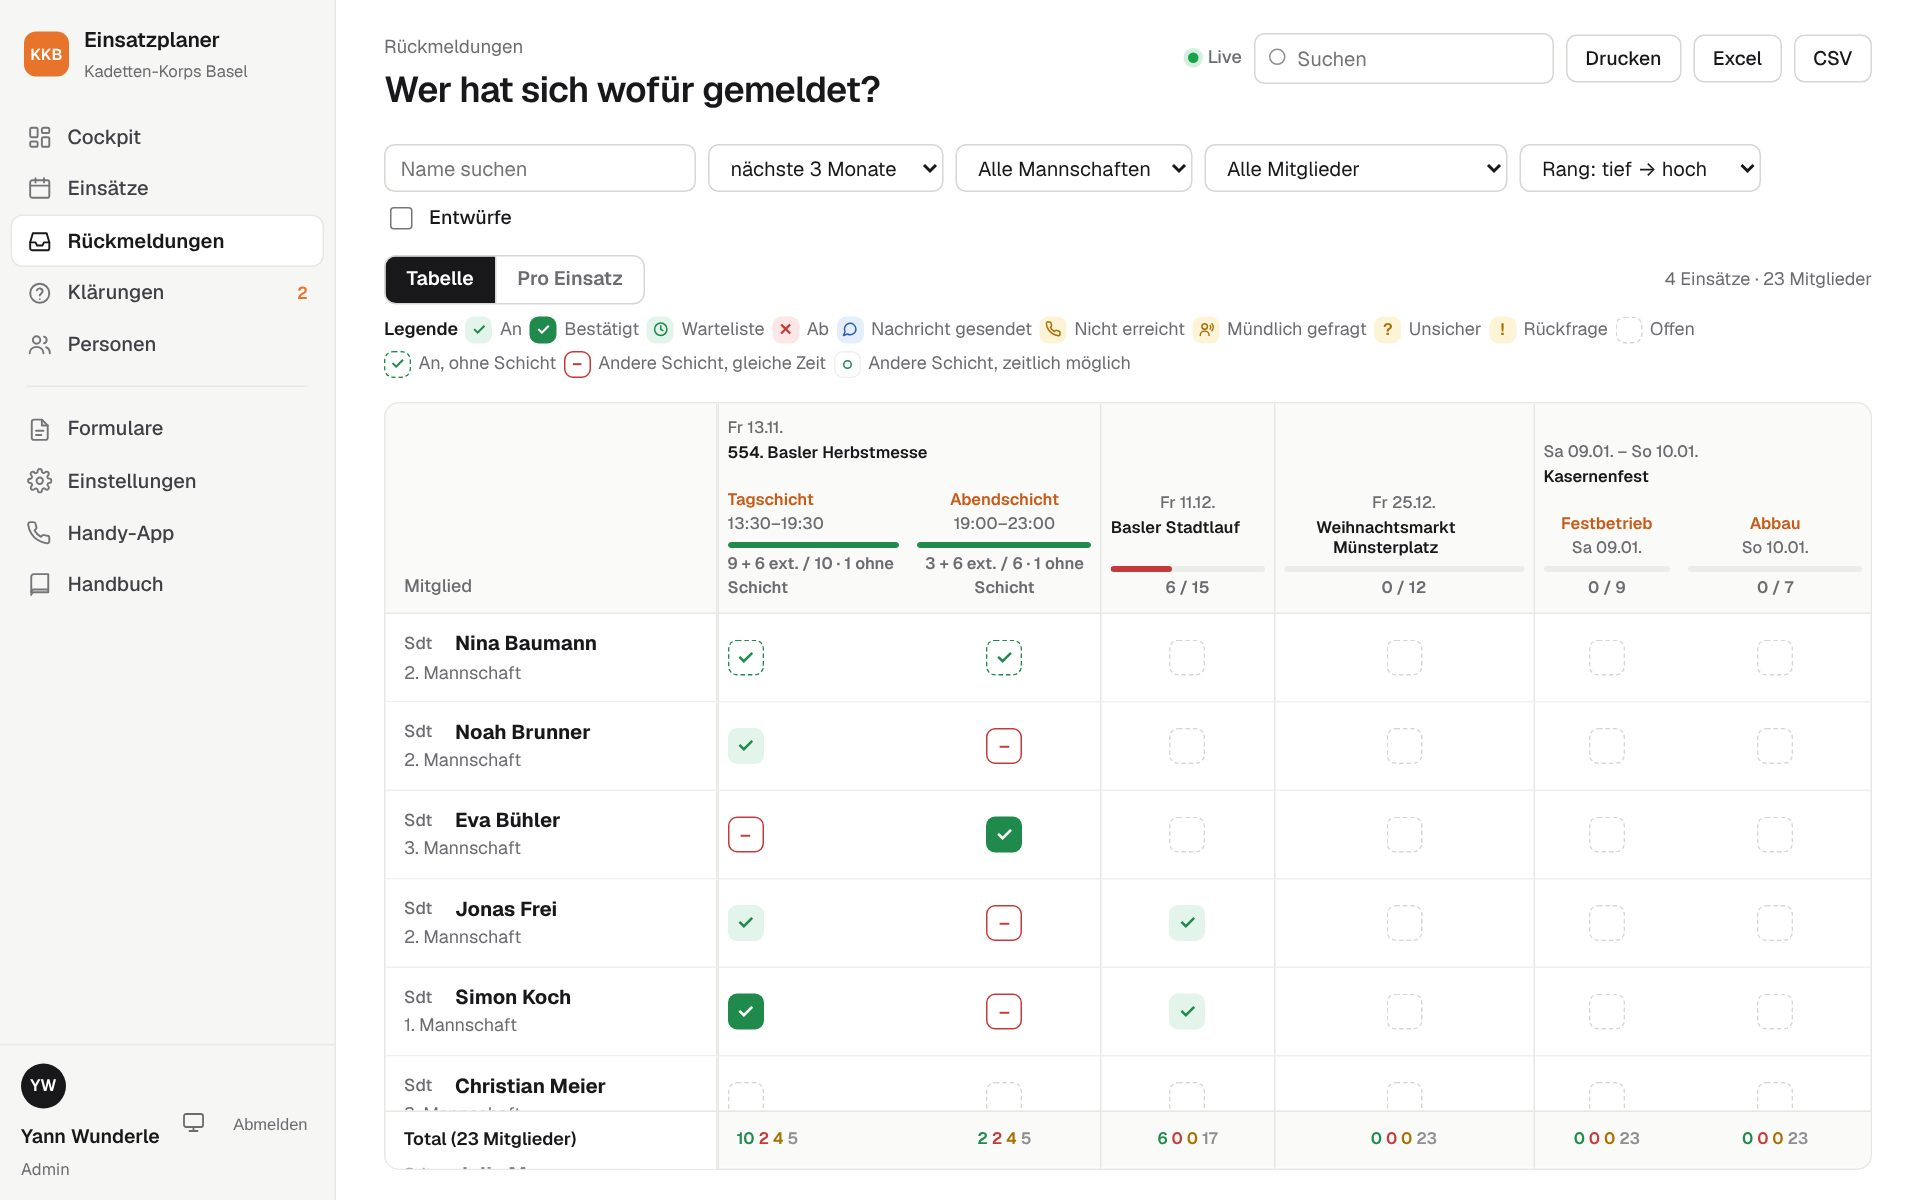
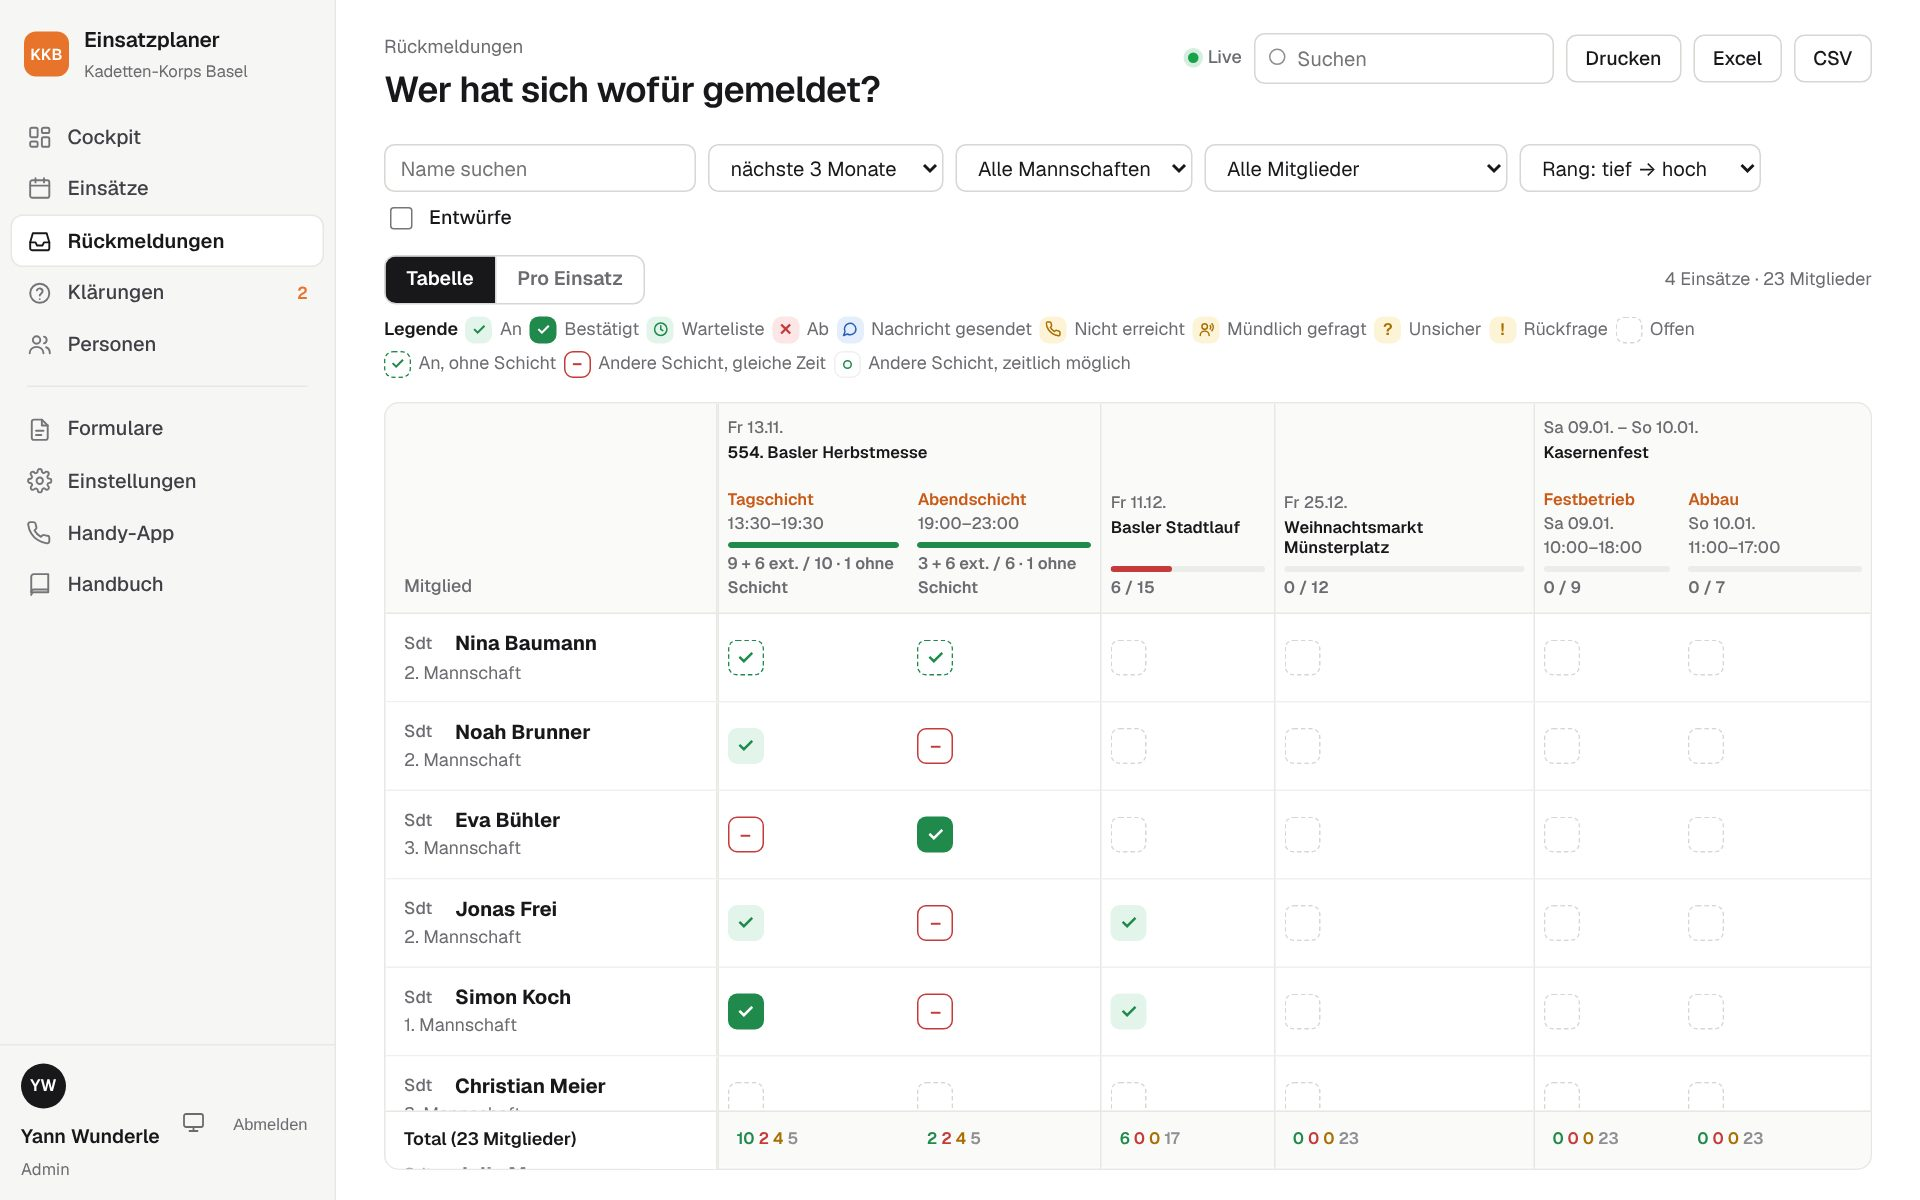
Rückmeldungen: alles links ausrichten, Zeit in jedem Schichtkopf
Claude-Session: https://claude.ai/code/session_01EBemd3HoigeV8VfdKMorkm

diff --git a/public/css/ruhig.css b/public/css/ruhig.css
@@ -508,3 +508,5 @@ details.collapse > summary .hint { margin-left: 6px; font-size: 12px; font-weigh
 @media (max-width: 760px) { .fb-ev:not(.fb-shift) { max-width: 120px; } }
 .fb-ev:not(.fb-shift) .ev { width: max-content; max-width: 136px; }
 @media (max-width: 760px) { .fb-ev:not(.fb-shift) .ev { max-width: 108px; } }
+/* Rückmeldungen: alles links ausrichten (Köpfe, Felder, Total) */
+.fb-matrix th, .fb-matrix td { text-align: left; }

diff --git a/docs/handbuch/handbuch.md b/docs/handbuch/handbuch.md
@@ -577,7 +577,7 @@ Die Seite **Rückmeldungen** beantwortet die wichtigste Frage der Aufgebotsstell
 ![Rückmeldungen als Tabelle](bilder/14-rueckmeldungen.jpg)
 
 - Mitglieder als Zeilen, Einsätze als Spalten. Kopfzeile und Namensspalte bleiben beim Scrollen stehen. Am PC scrollt nur die Tabelle. Filter, Legende und Kopfzeile bleiben oben stehen, die Total-Zeile bleibt unten sichtbar. In der ganzen Ansicht am Handy ist die Namensspalte schmal und zeigt nur Rang und Name. So sind mehr Schichten sichtbar.
-- Hat ein Einsatz mehrere Schichten, bekommt jede Schicht eine eigene Spalte. Unter dem Schichtnamen steht die Zeit, z. B. «13:30–19:30». Bei mehrtägigen Einsätzen steht dort der Tag. Der Einsatzname läuft über alle Spalten seiner Schichten.
+- Hat ein Einsatz mehrere Schichten, bekommt jede Schicht eine eigene Spalte. Unter dem Schichtnamen steht die Zeit, z. B. «13:30–19:30». Bei mehrtägigen Einsätzen stehen dort Tag und Zeit. Köpfe, Felder und Total sind links ausgerichtet. Der Einsatzname läuft über alle Spalten seiner Schichten.
 - Im Spaltenkopf jedes Einsatzes steht die Besetzung als Balken, z. B. «11 / 16». Sie zählt gleich wie der Reiter «Schichten» und die Übersicht: Anmeldungen mit Status Neu, Rückfrage oder Bestätigt. Die Warteliste zählt nicht.
 - **Symbole:** Die **Legende** direkt über der Tabelle erklärt alle Symbole (Tabelle unten). Sie ist immer sichtbar, in beiden Ansichten. Das Symbol zeigt immer nur den neuesten Stand.
 - **Kleines Fenster beim Darüberfahren:** Bleibt man kurz mit der Maus auf einem Feld, öffnet sich ein kleines Fenster. Die Ansicht wechselt dabei nicht. Das Fenster zeigt den Stand und den letzten Eintrag mit Name und Zeit, z. B. «Zuletzt: Anmeldung: Bestätigt – Lena Meier, heute 14:20 (4 Einträge)». Hat sich jemand selbst über das Formular gemeldet, steht «Person selbst».
